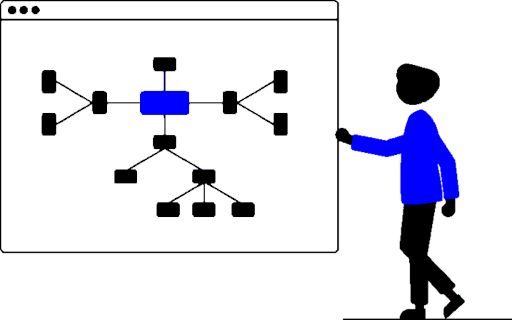
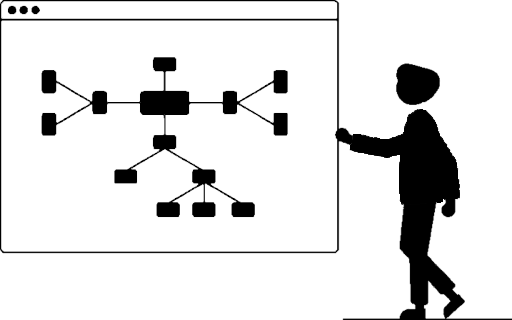
add polished, style changes

Changed region(s): [[0.6875, 0.3438, 0.9062, 0.6562], [0.25, 0.2188, 0.375, 0.375]]

diff --git a/src/components/theme.js b/src/components/theme.js
@@ -1,4 +1,5 @@
 import { keyframes } from "styled-components"
+import { rgba } from "polished"
 
 const boxContainer = theme => `
   border: 1px solid ${theme.text};
@@ -8,7 +9,7 @@ const boxContainer = theme => `
 `
 
 const shadow = theme => `
-  box-shadow: 2px 2px 0px 0px ${theme.secondary};
+  box-shadow: 2px 2px 0px 0px ${rgba(theme.secondary, 0.8)};
 `
 
 export const sectionContainer = theme => `

diff --git a/src/components/layout/layout.js b/src/components/layout/layout.js
@@ -17,11 +17,11 @@ const GlobalStyle = createGlobalStyle`
   }
 
   a {
-    color: ${props => props.theme.text};
+    color: ${props => props.theme.secondary};
   }
 
   a:visited {
-    color: ${props => props.theme.secondary};
+    color: ${props => props.theme.text};
   }
 
   a:hover, a:active {

diff --git a/src/components/layout/components/navbar.js b/src/components/layout/components/navbar.js
@@ -33,6 +33,7 @@ const Container = styled.nav`
 
   a {
     margin: 0 auto 0 0;
+    color: ${props => props.theme.text};
   }
 
   a,
